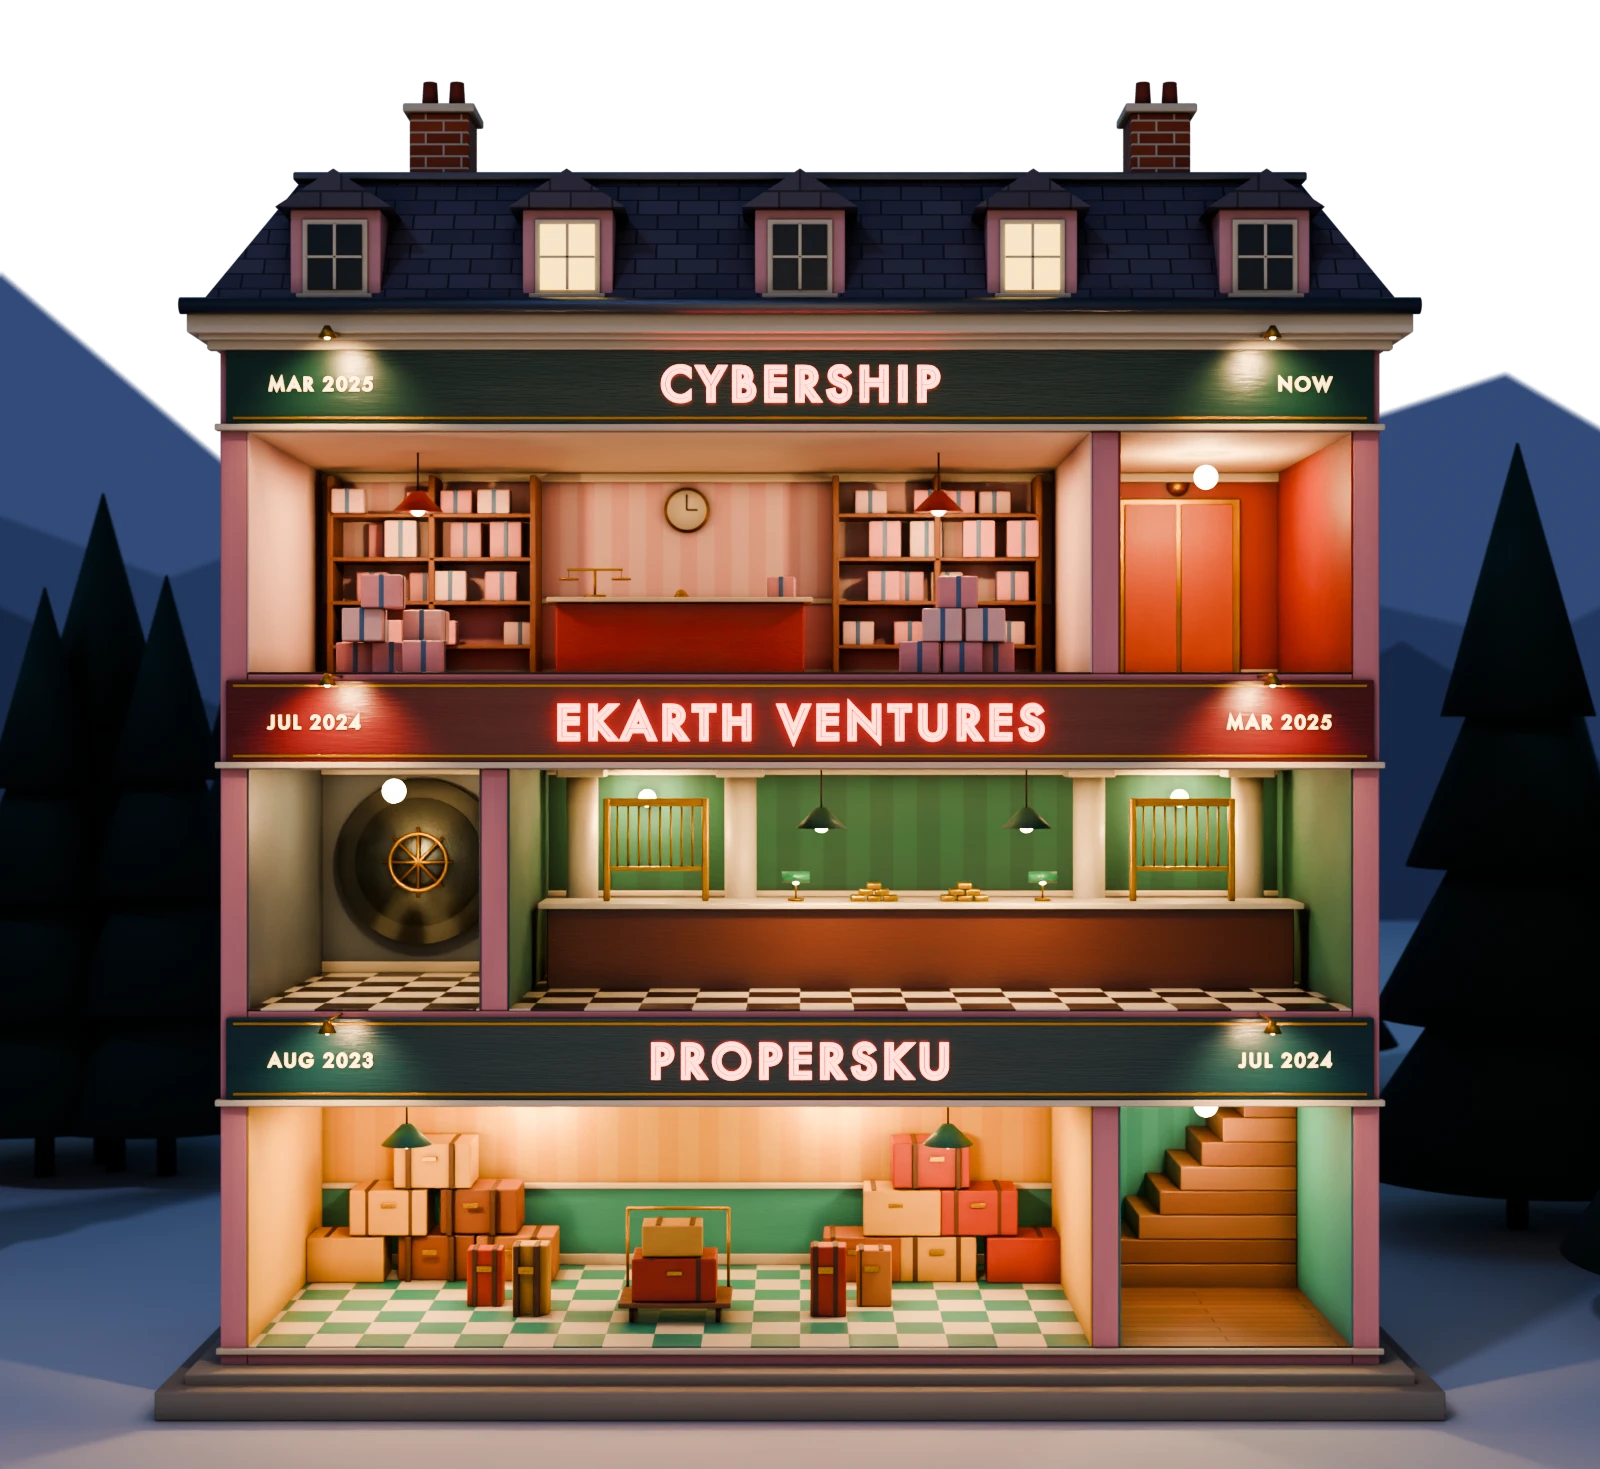
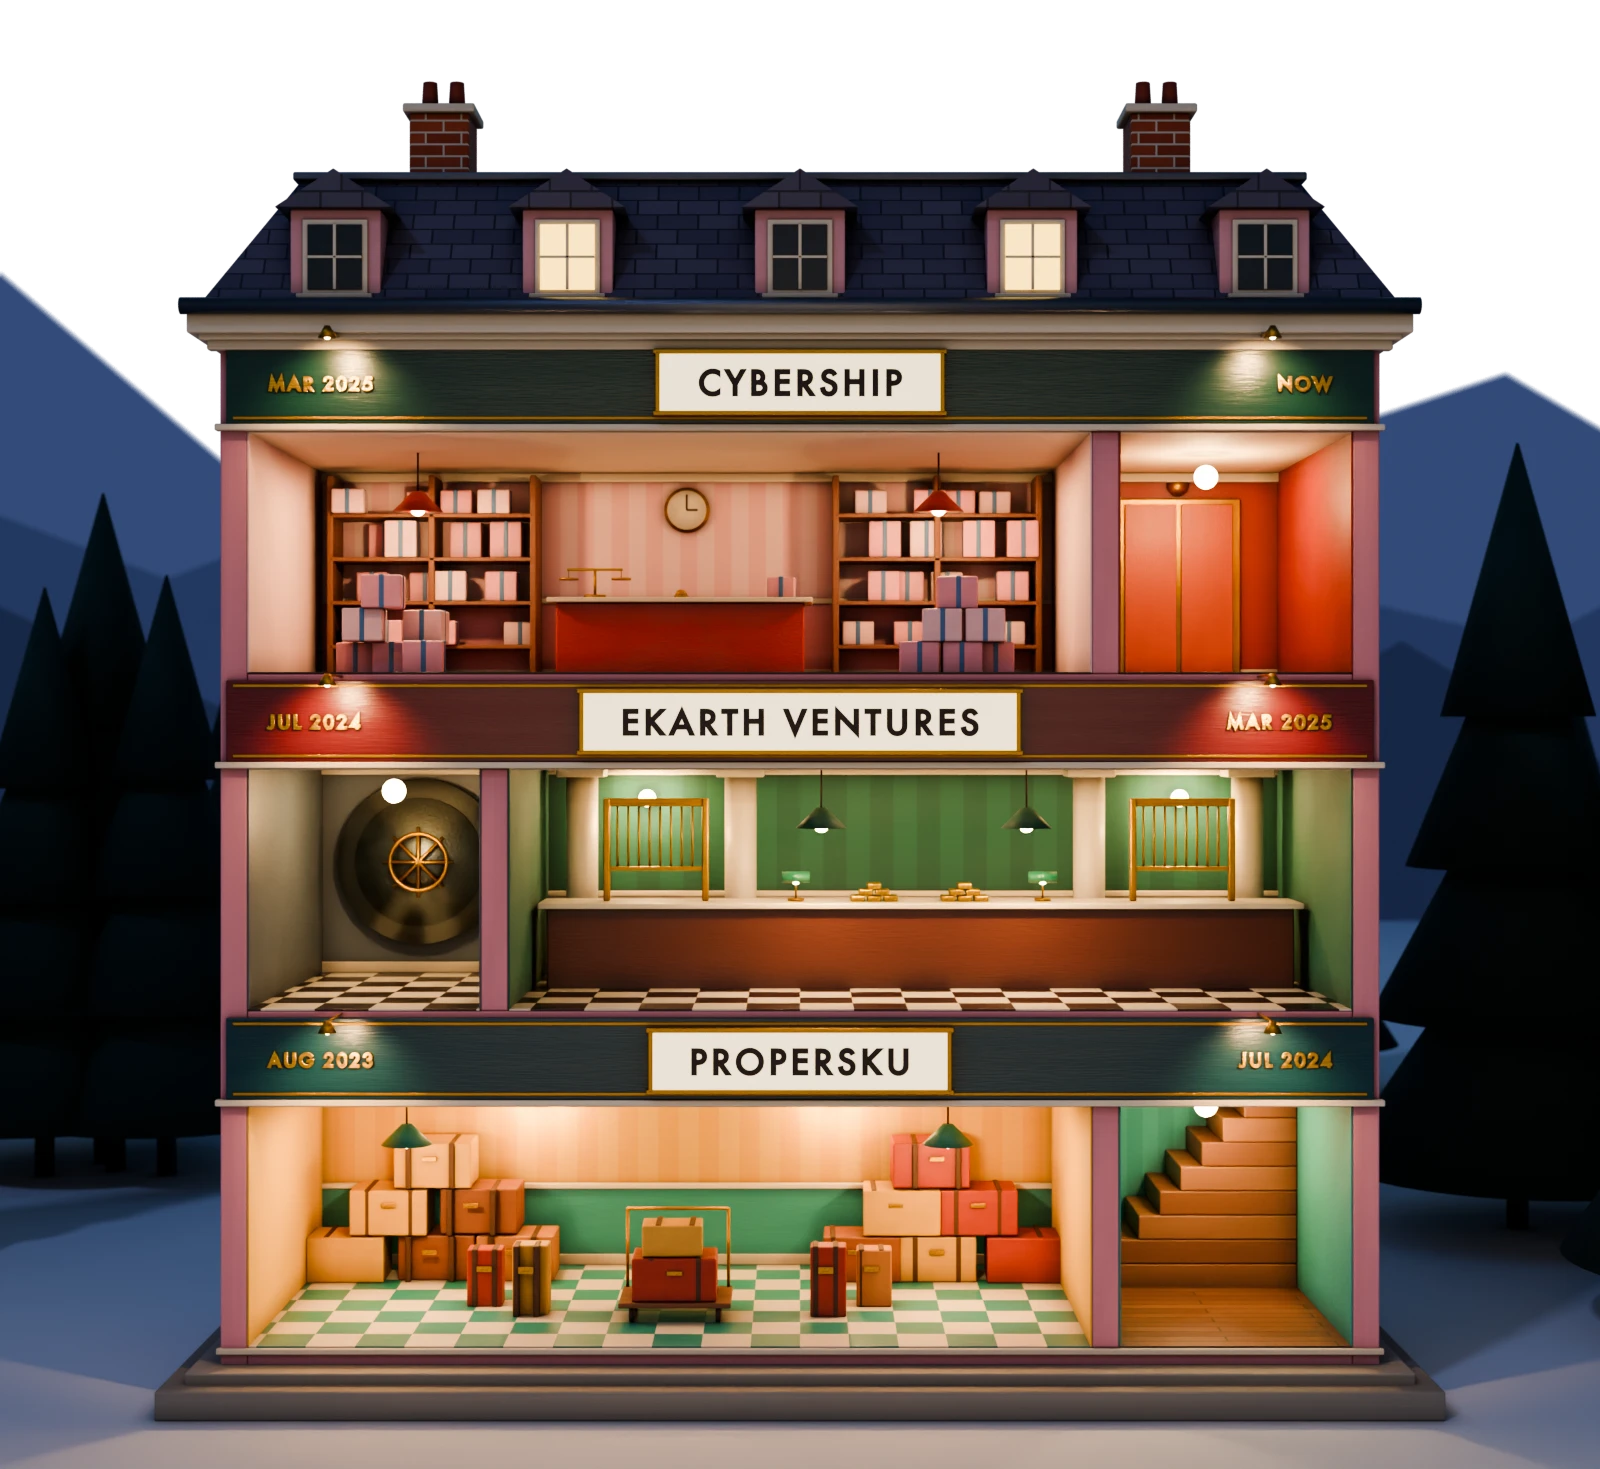
feat: name each company on a lit box sign in place of the neon
A brass-framed box lit from inside carries the company in dark capitals, as a hotel's desk sign
does, and the months at either end of the board are raised gilt under their lamps.

diff --git a/src/components/Dollhouse.tsx b/src/components/Dollhouse.tsx
@@ -11,7 +11,7 @@ const HEIGHT = 1469
 /**
  * The building (studio/dollhouse.py): a model of a house cut open at the front, standing at night in the
  * snow among pines, with mountains behind. There is a floor for each job, newest at the top, and over each
- * a painted board with the company on it in neon. The picture is wider than the sheet, which is the house's
+ * a painted board with the company on it in a lit sign. The picture is wider than the sheet, which is the house's
  * width, and it has no sky of its own: the page's night shows there, and its edges are faded into that. It
  * comes up behind the masthead, as a poster's picture does. The lettering is in the picture, so the jobs
  * are listed again here for whoever cannot see it.
@@ -21,7 +21,7 @@ export function Dollhouse({ roles }: DollhouseProps) {
     <>
       <img
         src="/objects/dollhouse.webp"
-        alt="A doll's house with its front off, lit up at night in the snow, with pines either side and mountains behind. It has three floors under a slate roof: a parcel room shelved with pink cake boxes, a banking hall with marble columns and a vault, and a dispatch room stacked with trunks. A neon sign over each floor names a company."
+        alt="A doll's house with its front off, lit up at night in the snow, with pines either side and mountains behind. It has three floors under a slate roof: a parcel room shelved with pink cake boxes, a banking hall with marble columns and a vault, and a dispatch room stacked with trunks. A lit sign over each floor names a company."
         width={WIDTH}
         height={HEIGHT}
         draggable={false}

diff --git a/studio/dollhouse.py b/studio/dollhouse.py
@@ -5,8 +5,9 @@
     bottom   a dispatch room: trunks stacked and strapped, a trolley, and the stairs
 
 Each floor is one long room and one narrow one, and they change sides from floor to floor. Over each floor
-a painted board runs across the front, as over a shop, with the company on it in red neon, and the month
-the job began and the month it ended in small lit letters at either end, each under a brass lamp. Run from the
+a painted board runs across the front, as over a shop. The company is on it in dark letters on a box lit
+from inside, and the month the job began and the month it ended are in gilt at either end, each under a
+brass lamp. Run from the
 repository root:
 
     blender -b --factory-startup -P studio/dollhouse.py -- [--scale 0.5] [--samples 128]
@@ -236,21 +237,30 @@ def ball(x, y, z, radius, material):
     bpy.ops.object.shade_smooth()
 
 
-def lettered(words, x, z, size, align="CENTER", neon=True):
-    """A sign on the front of a board, in spaced capitals. In neon it is glass tube bent round each letter's
-    outline and stood a little off the paint, which it lights. Otherwise it is small lit letters, solid."""
-    bpy.ops.object.text_add(location=(x, -0.13 if neon else -0.085, z), rotation=(math.pi / 2, 0, 0))
-    text = bpy.context.object.data
+def lettered(words, x, z, size, align="CENTER", boxed=False):
+    """A sign on the front of a board, in spaced capitals. Boxed, it is dark letters on the face of a
+    brass-framed box lit from inside, as wide as the word needs. Otherwise it is raised gilt letters."""
+    bpy.ops.object.text_add(location=(x, -0.2 if boxed else -0.075, z), rotation=(math.pi / 2, 0, 0))
+    sign = bpy.context.object
+    text = sign.data
     text.body = words.upper()
     if os.path.exists(FUTURA):
         text.font = bpy.data.fonts.load(FUTURA, check_existing=True)
-    text.size, text.space_character = size, 1.2 if neon else 1.16
+    text.size, text.space_character = size, 1.16
     text.align_x, text.align_y = align, "CENTER"
-    if neon:
-        text.fill_mode, text.bevel_depth, text.bevel_resolution = "NONE", 0.021, 3
-    else:
-        text.offset, text.extrude = 0.004, 0.012
-    bpy.context.object.data.materials.append(paint("#ff5648", glow=11) if neon else paint("#ffd88a", glow=3.2))
+    # The face is a medium, and a sign's letters are cut fatter.
+    if not boxed:
+        text.offset, text.extrude, text.bevel_depth, text.bevel_resolution = 0.005, 0.02, 0.006, 2
+        sign.data.materials.append(GILT)
+        return
+    text.offset, text.extrude = 0.011, 0.008
+    sign.data.materials.append(paint("#2a1a17", 0.5))
+    bpy.context.view_layer.update()
+    wide, tall = sign.dimensions.x / 2 + 0.45, 0.34
+    box(x - wide, x + wide, -0.19, -0.07, z - tall, z + tall, paint("#ffe9bd", glow=1.7))
+    for edge in (-1, 1):
+        box(x - wide - 0.05, x + wide + 0.05, -0.215, -0.06, z + edge * tall - 0.025, z + edge * tall + 0.025, BRASS)
+        box(x + edge * wide - 0.025, x + edge * wide + 0.025, -0.215, -0.06, z - tall, z + tall, BRASS)
 
 
 def lamp(x, y, z, watts, across, colour="#ffd9a0"):
@@ -260,6 +270,7 @@ def lamp(x, y, z, watts, across, colour="#ffd9a0"):
 
 
 PINK, PLASTER, CREAM, BRASS = paint("#e2939f", 0.75), paint("#eaa7b0", 0.75), paint("#f1e4c9", 0.7), paint("#c9982f", 0.3, 1.0)
+GILT = paint("#e0b040", 0.24, 1.0)
 WOOD, DARK, STEEL = paint("#7a4a2e", 0.5, grain="Z"), paint("#3b1f1a"), paint("#aeb8b8", 0.35, 1.0)
 BULB = paint("#ffe2a8", glow=30)
 BOARDS = laid("#8a5a3c", "#6f4429", "#3a2416", 2.4, 0.22, "floor", 0.4, 0.35)
@@ -483,9 +494,9 @@ for storey in range(3):
     box(-HALF - 0.04, HALF + 0.04, -0.1, 0.02, foot, foot + 0.07, CREAM)
     began, company, ended = JOBS[storey]
     middle = foot + FASCIA / 2 - 0.01
-    lettered(company, 0, middle, 0.66)
-    lettered(began, -HALF + 0.55, middle, 0.27, "LEFT", neon=False)
-    lettered(ended, HALF - 0.55, middle, 0.27, "RIGHT", neon=False)
+    lettered(company, 0, middle, 0.5, boxed=True)
+    lettered(began, -HALF + 0.55, middle, 0.27, "LEFT")
+    lettered(ended, HALF - 0.55, middle, 0.27, "RIGHT")
     # A brass lamp on an arm over either end of the board, looking back at the months.
     head = foot + FASCIA - 0.03
     for x in (-HALF + 1.35, HALF - 1.35):
